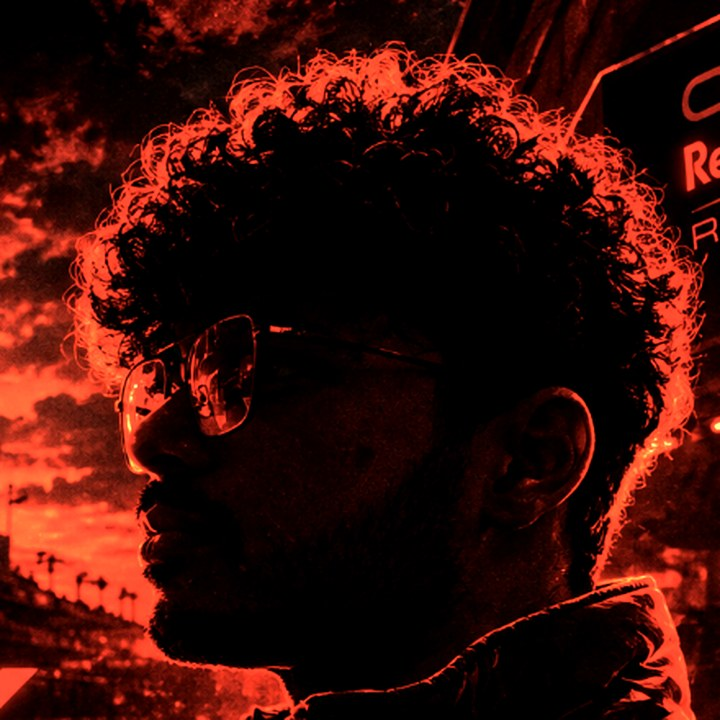
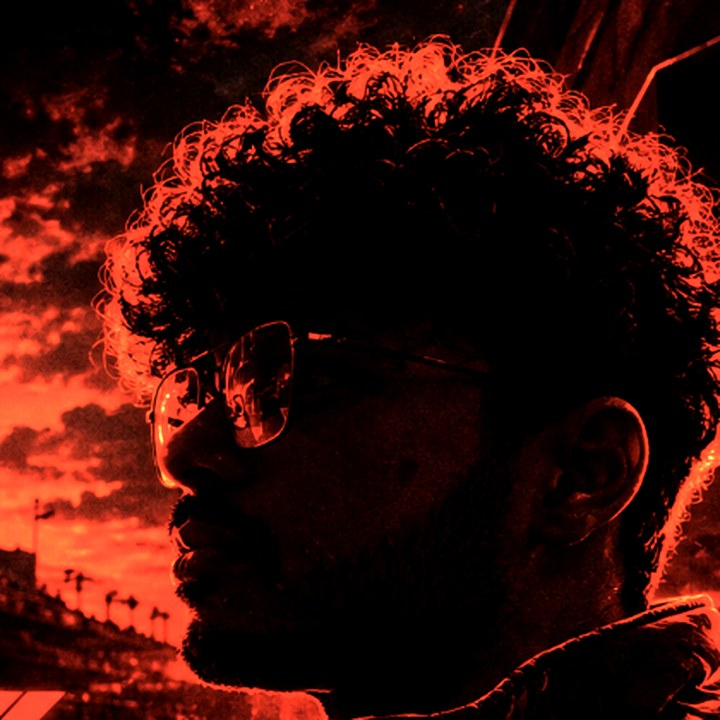
Portrait fills the inside of the track, clipped to its shape, with a red backdrop

diff --git a/app.js b/app.js
@@ -111,17 +111,33 @@
   trail.setAttribute("d", track.getAttribute("d"));
   trail.setAttribute("class", "trail");
   trackSvg.insertBefore(trail, car);
-  // Optional portrait, feathered into the middle of the circuit (behind the track and the car)
+  // Optional portrait filling the inside of the circuit: clipped to the track's own shape, with a
+  // dark red backdrop and speed streaks where the photo runs out (the track is drawn over the edge)
   if (p.portrait) {
+    const d = track.getAttribute("d");
+    const streaks = [[60, 330, 520, 120], [40, 420, 380, 260], [600, 470, 960, 300], [560, 560, 980, 380], [120, 250, 420, 110]]
+      .map(([x1, y1, x2, y2], i) => `<line x1="${x1}" y1="${y1}" x2="${x2}" y2="${y2}" stroke="url(#pStreak)" stroke-width="${[3, 2, 3, 2, 1.5][i]}"/>`).join("");
     trackSvg.insertAdjacentHTML("afterbegin", `
       <defs>
-        <radialGradient id="portraitFade" cx=".5" cy=".46" r=".5">
-          <stop offset=".55" stop-color="#fff"/><stop offset=".8" stop-color="#fff" stop-opacity=".45"/><stop offset="1" stop-color="#fff" stop-opacity="0"/>
+        <clipPath id="trackInside"><path d="${d}"/></clipPath>
+        <radialGradient id="pBack" gradientUnits="userSpaceOnUse" cx="560" cy="300" r="480">
+          <stop offset="0" stop-color="#5a0805"/><stop offset=".55" stop-color="#2a0403"/><stop offset="1" stop-color="#0c0606"/>
         </radialGradient>
-        <mask id="portraitMask" maskContentUnits="objectBoundingBox"><rect width="1" height="1" fill="url(#portraitFade)"/></mask>
+        <linearGradient id="pStreak" x1="0" y1="1" x2="1" y2="0">
+          <stop offset="0" stop-color="#ff2a1a" stop-opacity="0"/><stop offset=".5" stop-color="#ff2a1a" stop-opacity=".55"/><stop offset="1" stop-color="#ff2a1a" stop-opacity="0"/>
+        </linearGradient>
+        <linearGradient id="pSides" x1="0" y1="0" x2="1" y2="0">
+          <stop offset="0" stop-color="#fff" stop-opacity="0"/><stop offset=".2" stop-color="#fff"/><stop offset=".82" stop-color="#fff"/><stop offset="1" stop-color="#fff" stop-opacity="0"/>
+        </linearGradient>
+        <mask id="pSideMask" maskContentUnits="objectBoundingBox"><rect width="1" height="1" fill="url(#pSides)"/></mask>
       </defs>
-      <image class="hero__portrait" href="${esc(p.portrait)}" x="345" y="150" width="320" height="320" mask="url(#portraitMask)" preserveAspectRatio="xMidYMid slice"><title>${esc(p.name)}</title></image>`);
-  }  const L = track.getTotalLength();
+      <g class="hero__portrait" clip-path="url(#trackInside)">
+        <rect x="0" y="0" width="1000" height="600" fill="url(#pBack)"/>
+        ${streaks}
+        <image href="${esc(p.portrait)}" x="300" y="40" width="540" height="540" mask="url(#pSideMask)" preserveAspectRatio="xMidYMid slice"><title>${esc(p.name)}</title></image>
+      </g>`);
+  }
+  const L = track.getTotalLength();
   const trailLen = L * 0.08;
   trail.style.strokeDasharray = `${trailLen} ${L}`;
   const place = (d) => {

diff --git a/README.md b/README.md
@@ -26,7 +26,7 @@ It's served by GitHub Pages from the `main` branch of this repo.
 
 ## Portrait
 
-A faded portrait sits inside the race track on the home page (desktop only). To remove it, set `portrait: ""` in `data.js`.
+A portrait fills the inside of the race track on the home page, clipped to the circuit's shape with a red backdrop (desktop only). To remove it, set `portrait: ""` in `data.js`.
 
 To go back to the version without the portrait completely:
 
